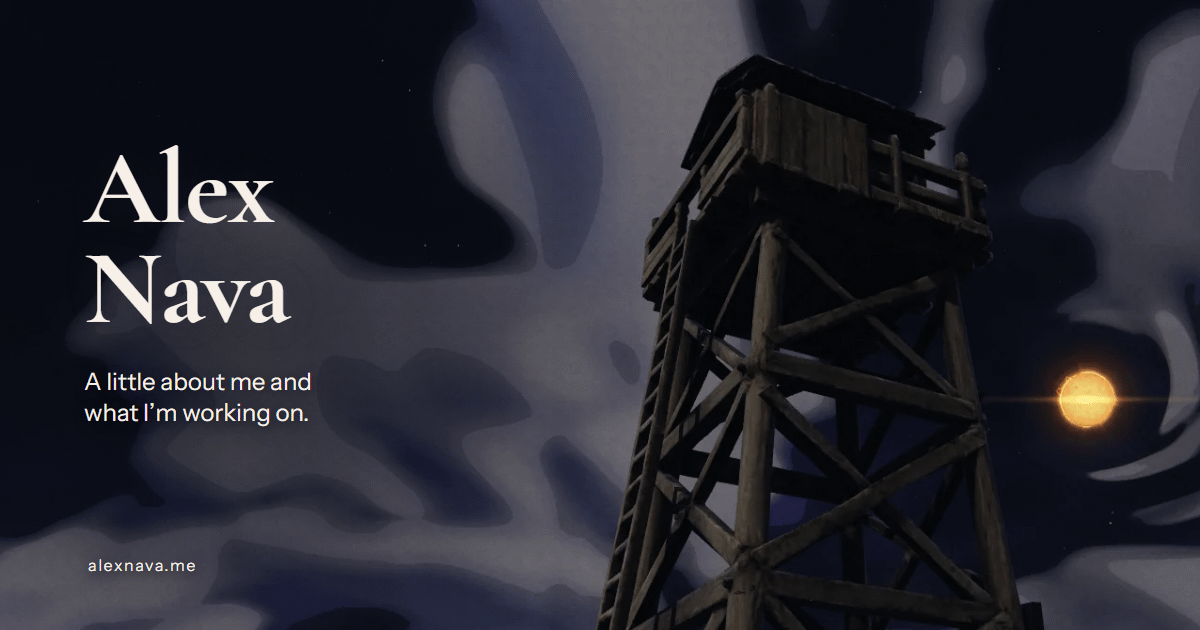
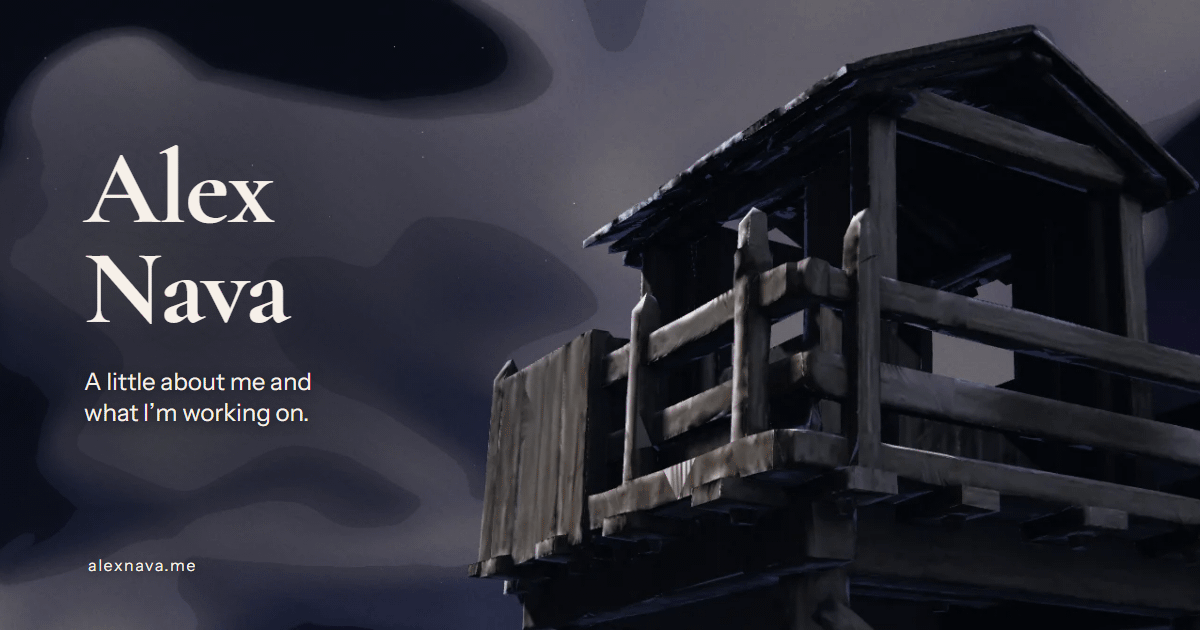
Share card: the lookout's gallery under the milky banks (#162)
The owner's pick of 2026-10-16: Gallery detail, with the sky's cloud
directions turned 70 degrees so The watch's banks stand behind the
cabin, and a little more light on the cabin (fill 1.5, key 1.1). The
backdrop is a new 1600x670 still; og.png is re-rendered with the
documented recipe (dither 61%, 298,931 bytes).

og:image and twitter:image now name og.png?card=<the first eight hex
digits of its SHA-256>, so LinkedIn and other link previews fetch the
new card instead of a copy kept under the old URL. A hosting test holds
both tags to the file's hash. The parameter is not ?v=, which the build
rejects for its hashed assets.

diff --git a/tools/og-card.html b/tools/og-card.html
@@ -1,9 +1,11 @@
 <!doctype html>
 <!--
   Source for the 1200x630 social card /og.png. Not published; it reads the repo fonts and its
-  backdrop, tools/og-card-backdrop.webp (the live scene's opening shot, The watch, from a 1600x900
-  still with every page layer but the canvas hidden, cropped to the picture between the film's
-  widescreen bars, 1600x670; kept here only for this card), through
+  backdrop, tools/og-card-backdrop.webp (the lookout's gallery, Gallery detail, under the milky
+  banks: a 1600x900 still of that shot with every page layer but the canvas hidden, the sky's
+  cloud directions turned 70 degrees so The watch's banks stand behind the cabin, and the shot's
+  light lifted a little (fill 1.5, key 1.1), cropped to the picture between the film's widescreen
+  bars, 1600x670; the owner's pick of 2026-10-16; kept here only for this card), through
   relative URLs. Regenerate from the repository root after a backdrop refresh (msedge returns
   before the file is written, so wait for it, e.g. PowerShell Start-Process -Wait; any headless
   Chromium with the same flags works):
@@ -12,12 +14,13 @@
       --user-data-dir=<scratch>\edge-profile --screenshot=<scratch>\og-raw.png
       file:///<repo>/tools/og-card.html
     magick <scratch>\og-raw.png -alpha off -kmeans 224 -unique-colors <scratch>\og-pal.png
-    magick <scratch>\og-raw.png -alpha off -dither FloydSteinberg -define dither:diffusion-amount=73%
+    magick <scratch>\og-raw.png -alpha off -dither FloydSteinberg -define dither:diffusion-amount=61%
       -remap <scratch>\og-pal.png -strip -define png:compression-level=9 PNG8:public/og.png
   The dither hides the palette's banding in the night's gradients: use the largest amount that
-  keeps the file at or under 300 KB (73% gave 299 KB with all the text in the name’s colour; the size does not grow evenly with the amount, so try the neighbours). test/hosting.test.mjs
-  holds public/og.png opaque, exactly 1200x630 and at most 300 KB. Re-scrape it with LinkedIn Post
-  Inspector after the release.
+  keeps the file at or under 300 KB (61% gave 299 KB for the gallery under the banks; the size does not grow evenly with the amount, so try the neighbours). test/hosting.test.mjs
+  holds public/og.png opaque, exactly 1200x630 and at most 300 KB, and index.html's og:image and
+  twitter:image naming it as og.png?card= its first eight hex digits of SHA-256, so a new card gets a
+  new URL: update both tags, then re-scrape it with LinkedIn Post Inspector after the release.
 -->
 <html lang="en">
   <head>

diff --git a/index.html b/index.html
@@ -18,7 +18,7 @@
 
     <meta property="og:url" content="https://alexnava.me/" />
 
-    <meta property="og:image" content="https://alexnava.me/og.png" />
+    <meta property="og:image" content="https://alexnava.me/og.png?card=d5a9ec8e" />
 
     <meta property="og:image:width" content="1200" />
 
@@ -35,7 +35,7 @@
 
     <meta name="twitter:description" content="Alex Nava’s personal website" />
 
-    <meta name="twitter:image" content="https://alexnava.me/og.png" />
+    <meta name="twitter:image" content="https://alexnava.me/og.png?card=d5a9ec8e" />
 
     <meta
       name="twitter:image:alt"

diff --git a/docs/TESTING.md b/docs/TESTING.md
@@ -37,7 +37,7 @@ Tests that build or bundle write under `.tmp-preview-review/` (ignored by Git), 
 | [hero](../test/hero.test.mjs)                                 | hero.js: the hero is `is-over-scene` only while the scene host is ready (the tablet intro scrim), at once if initialised after the reveal, always without MutationObserver, never without a host                                                                                                                                                                                                                                                                                                                                                                                                                                                                                                                                                                                                                                                                                                                                                                                                                                                                                                                                                                                                                                                                                                                                                                                                                                                                                                                                                                                                                                                                                                                                                                                                                                                                                                                                                                                                                                                                           |
 | [hill-silhouette](../test/hill-silhouette.test.mjs)           | The elevation profile and baseline hill ring; the film ranges' geometry, crests, snow and layering; loading and the range stand-in; sliced building and fade-in; sector culling; the mountain shader and the shared mist on its feet; draw order; the softly wrapped key, no crest line or rim; the single moon key                                                                                                                                                                                                                                                                                                                                                                                                                                                                                                                                                                                                                                                                                                                                                                                                                                                                                                                                                                                                                                                                                                                                                                                                                                                                                                                                                                                                                                                                                                                                                                                                                                                                                                                                                        |
 | [mountain-massifs](../test/mountain-massifs.test.mjs)         | The delivered mountain GLBs (quantized, object-space maps, no emissive, the same geometry on both tiers, their caps), placements inside each model's envelope and their layer's shell, the composed skyline's caps and tour peaks, sector order and padded draw ranges, the massif attributes and snow, loading at low priority, landing, the five-ring fallback (a failed GLB, a stalled one past the deadline, a failed chunk freeing what arrives after it), disposal order, the massif shader, sliced building and cancelling as it lands                                                                                                                                                                                                                                                                                                                                                                                                                                                                                                                                                                                                                                                                                                                                                                                                                                                                                                                                                                                                                                                                                                                                                                                                                                                                                                                                                                                                                                                                                                                              |
-| [hosting](../test/hosting.test.mjs)                           | The share card's wiring and limits (opaque, exactly 1200×630, at most 300 KB, as its `og:image` tags say), discovery files and their headers, `robots.txt` crawler lists, `_headers` security and caching (one cache policy per path; 25 fingerprintable images, 16 models and 9 slate maps), `_redirects`, `security.txt` fields and expiry window, icons and the manifest                                                                                                                                                                                                                                                                                                                                                                                                                                                                                                                                                                                                                                                                                                                                                                                                                                                                                                                                                                                                                                                                                                                                                                                                                                                                                                                                                                                                                                                                                                                                                                                                                                                                                                |
+| [hosting](../test/hosting.test.mjs)                           | The share card's wiring and limits (opaque, exactly 1200×630, at most 300 KB, as its `og:image` tags say, which name it with its own hash, `og.png?card=` the first eight hex digits of its SHA-256), discovery files and their headers, `robots.txt` crawler lists, `_headers` security and caching (one cache policy per path; 25 fingerprintable images, 16 models and 9 slate maps), `_redirects`, `security.txt` fields and expiry window, icons and the manifest                                                                                                                                                                                                                                                                                                                                                                                                                                                                                                                                                                                                                                                                                                                                                                                                                                                                                                                                                                                                                                                                                                                                                                                                                                                                                                                                                                                                                                                                                                                                                                                                     |
 | [lantern](../test/lantern.test.mjs)                           | Lantern normalization, staging and commit on a cut, keeping the stand-in, camera re-measurement, flame preparation and failure, the delivered lantern GLBs, the globe's draw group, flicker bounds and holds, GLSL ES 1.00, the compacted chunk's anchors                                                                                                                                                                                                                                                                                                                                                                                                                                                                                                                                                                                                                                                                                                                                                                                                                                                                                                                                                                                                                                                                                                                                                                                                                                                                                                                                                                                                                                                                                                                                                                                                                                                                                                                                                                                                                  |
 | [lightning](../test/lightning.test.mjs)                       | The storm's lightning: only in October (by the scene's date), its seeded schedule, never more than three flashes a second (forced and crowded too), pulses, forced peaks by shot, the giants' higher flickers, the flash kept exactly off The watch's reference banks and the bolt off them, the bolt's path and its leader, a tall bolt's fallback, the flash on the sky, the film's materials (flashHook(), guarded by the text), the ground and the mist and their exact return, never a light or the moon rim, holds and reduced motion, a cut, the fade before a tour cut's capture, the open sky lifted only near the banks, the bolt's round caps, disposal, balanced's lack of a bolt, the shaders' and index.js's wiring                                                                                                                                                                                                                                                                                                                                                                                                                                                                                                                                                                                                                                                                                                                                                                                                                                                                                                                                                                                                                                                                                                                                                                                                                                                                                                                                          |
 | [markup-accessibility](../test/markup-accessibility.test.mjs) | ARIA references and landmarks, the title card's markup, CSS star field and grain (fading at the reveal), the canvas fade, the loading line's exact markup (its label, then its bar's track and fill, between the bottom bar and the footer) and CSS (fixed one footer row above the footer in the name's colour, at 4.5:1 or better on the night; its bar 2px along the window's top edge, the fill in the name's colour scaled from the left by a transform transition, quicker once done; no transition under reduced motion; the track solid and the fill without its glow under reduced transparency; no line in forced colours), its star's exact markup (once, in the scene shell before the canvas) and CSS (z-index 0, no transition), no decorative layer, keyframes or animation on the line or the star, the script writing only transforms and opacities, forced colours and increased contrast hiding the star, the footer's Contact and links (markup, 44px targets, scrims, the name's colour with no rule of its own for open Contact, the links underlined and shown without scripts, the `email_off` markers), metadata and both pages' dark colour scheme, legibility minimums, all text in the name's colour (one token, `--text`, `#f7f1ea`, which the name uses; every `color` outside forced colours `var(--text)`, `inherit`, `currentColor` or `transparent`; no other text token), hover and press states (underlines, hover on real hover only, no lift) and focus states (the footer's and the 404's rings 11px inside their targets), one selection wash on every page, safe areas, forced colours, the 404's head, and the 404 as the title card's night with one centred line (its exact markup, the grid centring, the serif heading at 700, the heading, text and Home in `--text` at 4.5:1 or better on the night, Home's 44px target and 18px line, no `url()` on any `.not-found` rule, the 34px heading sideways, the heading balanced and the text wrapped pretty), and the footer's controls and the 404's text each declared once  |

diff --git a/docs/ASSETS.md b/docs/ASSETS.md
@@ -84,11 +84,11 @@ The grit and relief maps are the close soil near the lens (mud-ground.js `SLATE_
 | `icon-192.png`          |   1,969 | 192×192   | Palette with transparency (tRNS)                          |
 | `icon-512.png`          |  18,901 | 512×512   | RGBA                                                      |
 | `icon-maskable-512.png` |   2,928 | 512×512   | Opaque palette                                            |
-| `og.png`                | 299,150 | 1200×630  | Share card; opaque, 224-colour palette                    |
+| `og.png`                | 298,931 | 1200×630  | Share card; opaque, 224-colour palette                    |
 
 The icons are the initials AN in the name's face, Cormorant Garamond 700, in the name's colour (`#f7f1ea`) on the night (`#090b16`) ([Style](STYLE.md#static-images)). `favicon.svg` and `icon.svg` draw, on a 512 viewBox, the night tile with its corners rounded at 112 and the initials as one outline path (even-odd fill), so they need no font. `icon-maskable.svg` is full bleed, its initials scaled to 0.815 of theirs to sit inside the maskable safe circle, and `apple-touch-icon.png` is `icon.svg`'s drawing full bleed (iOS rounds it). The PNGs and the ICO's images are Chrome's renderings of these drawings.
 
-`tools/og-card-backdrop.webp` (38,878 bytes, 1600×670, opaque) is the share card's backdrop: a still of the live scene's opening shot, The watch, with every page layer but the canvas hidden. It is never published (`test/hosting.test.mjs`, `test/bundle-output.test.mjs`).
+`tools/og-card-backdrop.webp` (43,954 bytes, 1600×670, opaque) is the share card's backdrop: the lookout's gallery (Gallery detail) under the milky banks, the owner's pick of 2026-10-16: a still of that shot with every page layer but the canvas hidden, the sky's cloud directions turned 70 degrees so The watch's banks stand behind the cabin, and the shot's light lifted a little (fill 1.5, key 1.1). It is never published (`test/hosting.test.mjs`, `test/bundle-output.test.mjs`).
 
 ## Sources
 
@@ -104,7 +104,7 @@ Only the share card is generated in the repository. Everything else is committed
 | Fonts                         | Variable woff2 subsets of the two OFL fonts; the subsetting is not in the repository                                                                                                                                                                                                                                                                                               |
 | Icons                         | The initials traced into outlines by a Node script from Chrome's rendering of Cormorant Garamond 700 at 1000 px (marching squares, simplified to within 0.2 px), and the PNG and ICO images rendered by Chrome from the same drawings by another ([Credits](CREDITS.md)); no generator in the repository                                                                           |
 | `public/og.png`               | Rendered from `tools/og-card.html` over the backdrop ([below](#refresh-the-share-card))                                                                                                                                                                                                                                                                                            |
-| `tools/og-card-backdrop.webp` | A 1600×670 still of the accepted live scene's opening shot, The watch                                                                                                                                                                                                                                                                                                              |
+| `tools/og-card-backdrop.webp` | A 1600×670 still of the live scene's Gallery detail under The watch's banks, made with the prototype capture scripts in the owner's archive                                                                                                                                                                                                                                        |
 
 ## Budgets
 
@@ -116,7 +116,7 @@ Only the share card is generated in the repository. Everything else is committed
 | Complete scene, balanced                               | 3 MiB                                              | 3,063,140        | The same                                                                                  |
 | UI bundle (`app.HASH.js`)                              | under 30 KiB                                       |                  | `bundle-output`: "UI bundle stays under the LCP budget"                                   |
 | Scene entry and the chunks it imports statically       | under 830 KiB, exactly two files                   |                  | `bundle-output`: "scene bundle stays under the deferred-payload budget"                   |
-| `public/og.png`                                        | opaque, exactly 1200×630, at most 300 KB (300,000) | 299,150          | `hosting`: "the share image is an opaque 1200x630 PNG of at most 300 KB, as its tags say" |
+| `public/og.png`                                        | opaque, exactly 1200×630, at most 300 KB (300,000) | 298,931          | `hosting`: "the share image is an opaque 1200x630 PNG of at most 300 KB, as its tags say" |
 
 Lazy scene chunks are outside the script budget. The scene's default load carries the tower's stored outline for the loading line's star ([opening-outline.js](../src/scene/opening-outline.js), about 10 kB of it). Script sizes change with every build; `npm run build:dist` prints them.
 
@@ -157,7 +157,7 @@ The two variable fonts are the only ones the design allows ([Style](STYLE.md#pal
 
 ### Refresh the share card
 
-1. Refresh `tools/og-card-backdrop.webp` only from an accepted live view: a 1600×900 still of The watch with every page layer but the canvas hidden, cropped to the picture between the film's widescreen bars (1600×670). Edit `tools/og-card.html` when the card's text changes.
+1. Refresh `tools/og-card-backdrop.webp` only from an accepted live view: a 1600×900 still with every page layer but the canvas hidden, cropped to the picture between the film's widescreen bars (1600×670). Today's is Gallery detail with the sky's cloud directions turned 70 degrees and its light lifted a little, rendered by the prototype capture scripts in the owner's archive (`Assets/Review captures/share-card-20261016`). Edit `tools/og-card.html` when the card's text changes.
 2. Render and quantize the card with the commands in `tools/og-card.html`'s header comment (headless Edge, then ImageMagick to a palette PNG).
-3. Use the largest dither amount that keeps `public/og.png` at or under 300 KB (the header comment gives the steps), then run `node --test test/hosting.test.mjs`, which holds it opaque, exactly 1200×630 and at most 300 KB.
+3. Use the largest dither amount that keeps `public/og.png` at or under 300 KB (the header comment gives the steps). Then set the `?card=` of `index.html`'s `og:image` and `twitter:image` to the first eight hex digits of the new file's SHA-256, so link previews fetch it afresh, and run `node --test test/hosting.test.mjs`, which holds the file opaque, exactly 1200×630 and at most 300 KB, and both tags on its hash.
 4. After the release, purge `/og.png` ([Operations](OPERATIONS.md#headers-and-caching)) and re-scrape it with LinkedIn Post Inspector.

diff --git a/docs/STYLE.md b/docs/STYLE.md
@@ -117,7 +117,7 @@ The rules for visual, motion and typographic changes. Read them before changing 
 
 ## Static images
 
-- The share card, `public/og.png`, is rendered from `tools/og-card.html` over `tools/og-card-backdrop.webp`, a still of the live scene; its words (the name, the intro and alexnava.me) take the name's colour, as the page's do. It must match the accepted live appearance: compare live views before refreshing either, and regenerate the card when the backdrop changes.
+- The share card, `public/og.png`, is rendered from `tools/og-card.html` over `tools/og-card-backdrop.webp`, the lookout's gallery (Gallery detail) under the milky banks, the owner's pick of 2026-10-16: a still of that shot with every page layer but the canvas hidden, the sky's cloud directions turned 70 degrees so The watch's banks stand behind the cabin, and the shot's light lifted a little (fill 1.5, key 1.1); its words (the name, the intro and alexnava.me) take the name's colour, as the page's do. It must match the accepted live appearance: compare live views before refreshing either, and regenerate the card when the backdrop changes.
 - The icons are the initials AN in the name's face and colour, Cormorant Garamond 700 in `#f7f1ea`, on the night (`#090b16`): the owner's pick of 2026-10-15, "lets go with initials AN", over the scene's star, a single A and the lookout with its star. The favicons and the manifest's `any` icons round the tile's corners; the maskable icons and the Apple touch icon are full bleed, for launchers and iOS to crop, the maskable's initials smaller, inside the safe circle. The initials are outlines, so no icon needs the font ([Assets](ASSETS.md#icons-and-share-card)).
 
 ## Guardrails

diff --git a/docs/CONTENT.md b/docs/CONTENT.md
@@ -82,7 +82,7 @@ With `--rollback`, `smoke-pages.sh` also accepts `<title>Nava Designs — Alex N
 1. Edit the words in every place the table above lists. Keep the footer's links and `public/index.md`'s Contact section in step, and the `mailto:` link inside its `email_off` markers.
 2. When the homepage's content changes, set the same date (`YYYY-MM-DD`) in the JSON-LD `dateModified` and in `public/index.md`'s front matter. `sitemap.xml` follows on the next build.
 3. Update the tests that pin the old wording in the same change (`test/markup-accessibility.test.mjs`, `test/hosting.test.mjs`, and `test/smoke-pages.test.mjs` for the title and the 404 heading), and the address in the `test/contact.test.mjs` fixture. A change to the strings the CI scripts and `ci.yml` read needs authorization first.
-4. When the name, intro or domain changes, edit `tools/og-card.html` and regenerate `public/og.png` ([Assets](ASSETS.md#refresh-the-share-card)).
+4. When the name, intro or domain changes, edit `tools/og-card.html`, regenerate `public/og.png` and update the `?card=` hash in `index.html`'s `og:image` and `twitter:image` ([Assets](ASSETS.md#refresh-the-share-card)).
 5. Keep `public/index.md`, `llms.txt`, `site-agents.md` and `sitemap.md` accurate and free of anything private ([AGENTS.md](../AGENTS.md) rule 4).
 6. Run `npm run format`, `npm run verify`, `npm test` and `npm run build:dist`.
 7. After the release, purge each changed stable-named file (`/index.md`, `/robots.txt`, `/llms.txt`, `/AGENTS.md`, `/sitemap.md`, `/sitemap.xml`, `/manifest.webmanifest`, `/og.png`, `/.well-known/security.txt`); HTML revalidates on every request ([Operations](OPERATIONS.md#headers-and-caching)).
